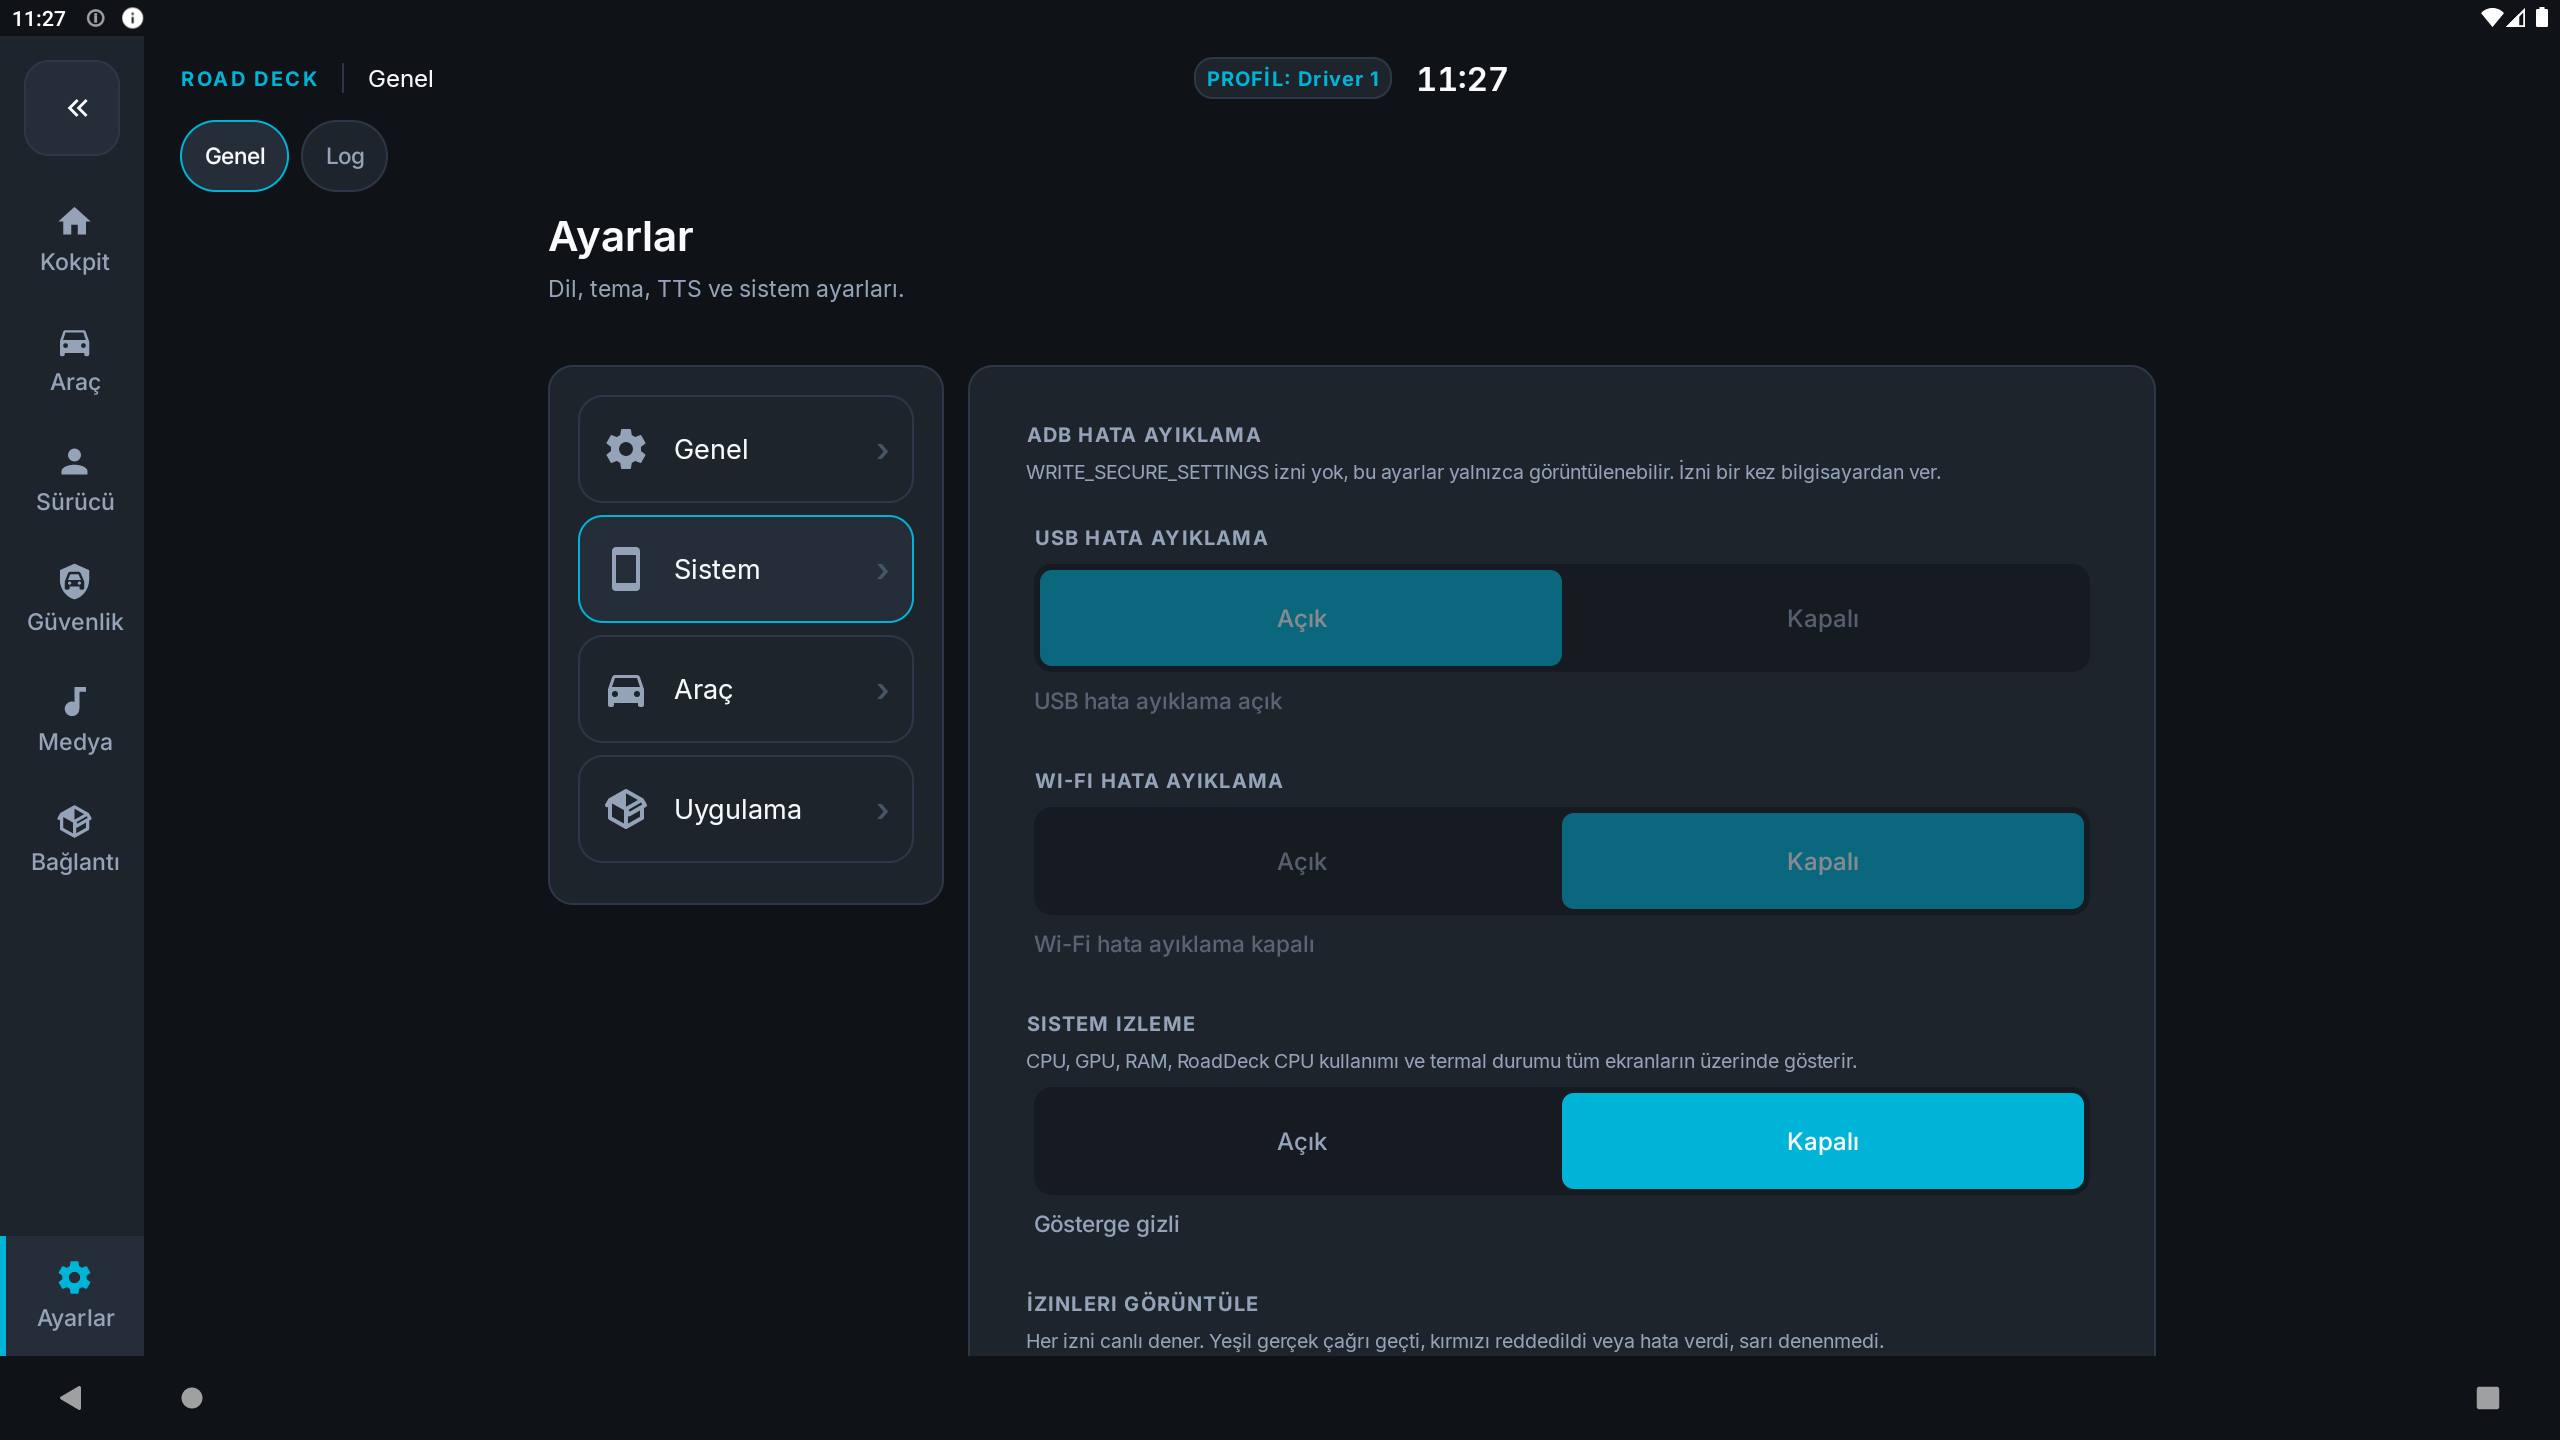
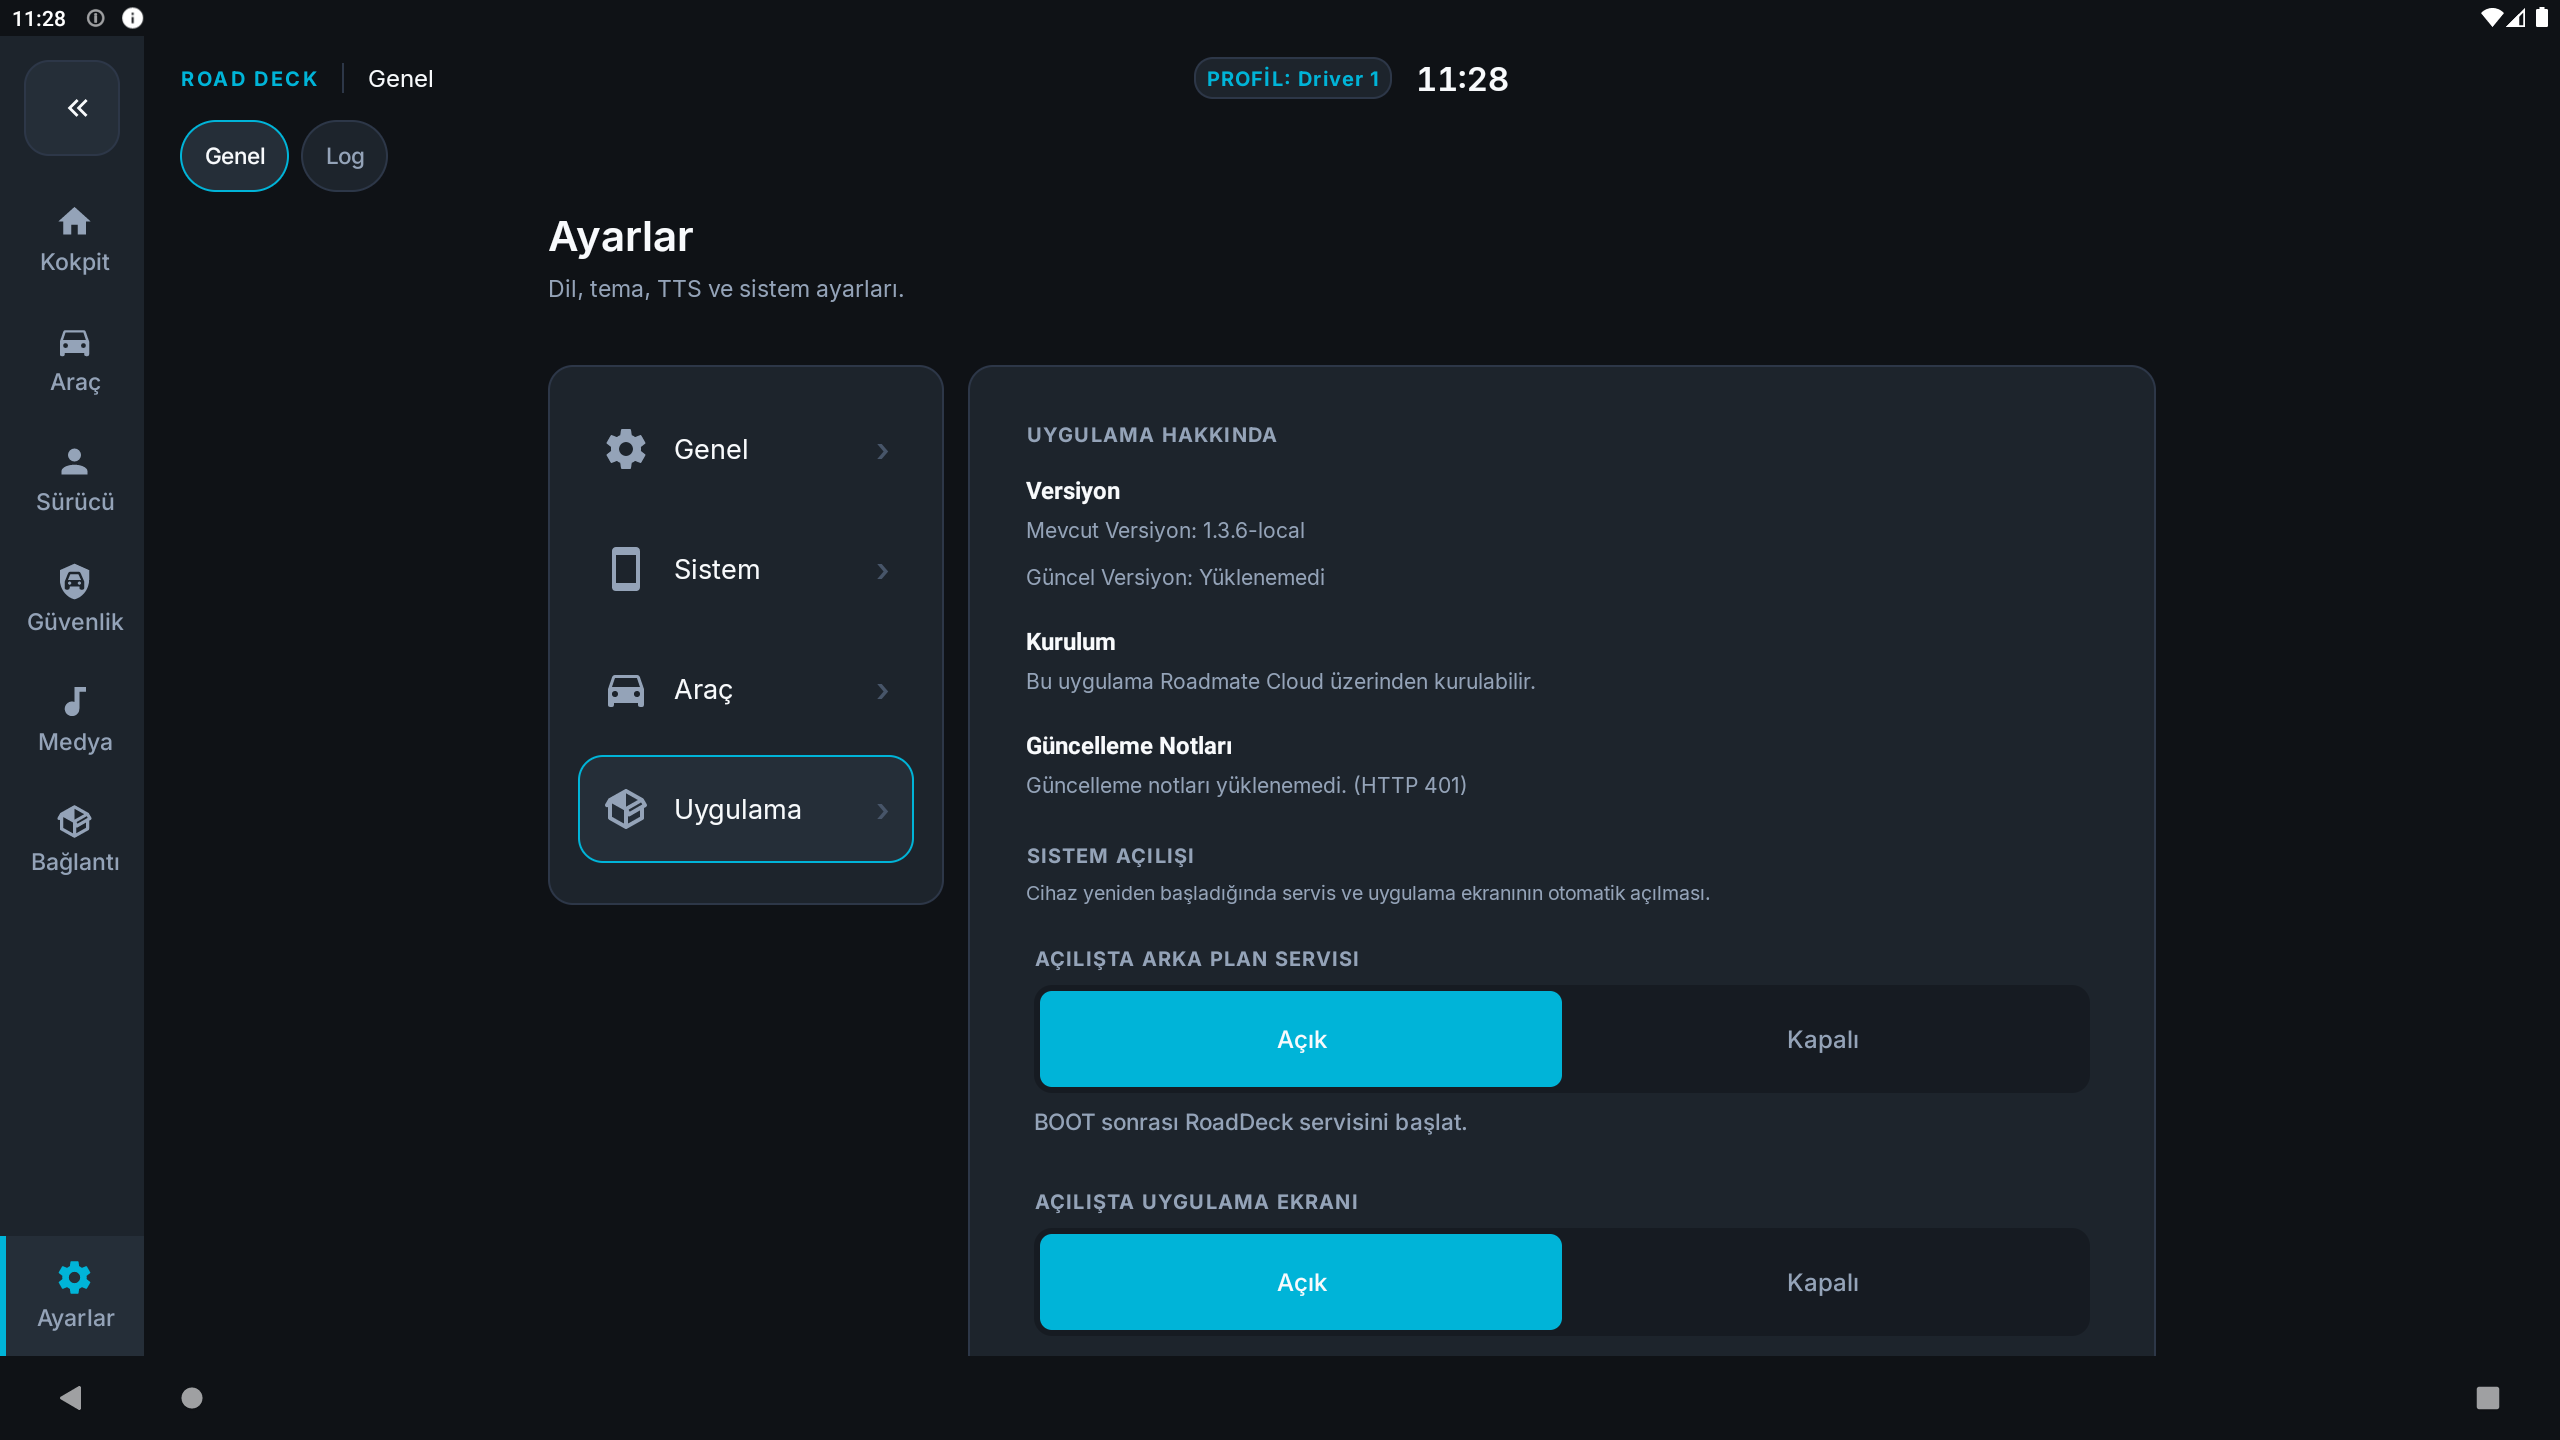
fix: ayarlar kategori satirlarinda outline sizintisi
- Secili olmayan satirlar artik outlined degil, cercevesiz surface1
- Yalniz aktif kategori accent outline aliyor
- Ilk acilis ve secim sonrasi ayni davranis

Changed region(s): [[0.4062, 0.6562, 0.8125, 0.9375], [0.4062, 0.2812, 0.75, 0.5625], [0.4062, 0.5625, 0.8125, 0.6562]]

diff --git a/app/src/main/java/com/mapcontrol/ui/builder/SettingsTabBuilder.java b/app/src/main/java/com/mapcontrol/ui/builder/SettingsTabBuilder.java
@@ -170,9 +170,8 @@ public class SettingsTabBuilder {
                 row.setFocusableInTouchMode(false);
                 row.clickRow(v -> {
                     for (CockpitListRow other : categoryRows) {
-                        other.setBackground(CockpitSurfaces.outlined(context,
-                                CockpitTokens.color(context, R.color.ck_surface_1),
-                                CockpitTokens.color(context, R.color.ck_stroke), 16f));
+                        other.setBackground(CockpitSurfaces.rounded(context,
+                                CockpitTokens.color(context, R.color.ck_surface_1), 16f));
                     }
                     selectedRow[0] = row;
                     row.setBackground(CockpitSurfaces.outlined(context,
